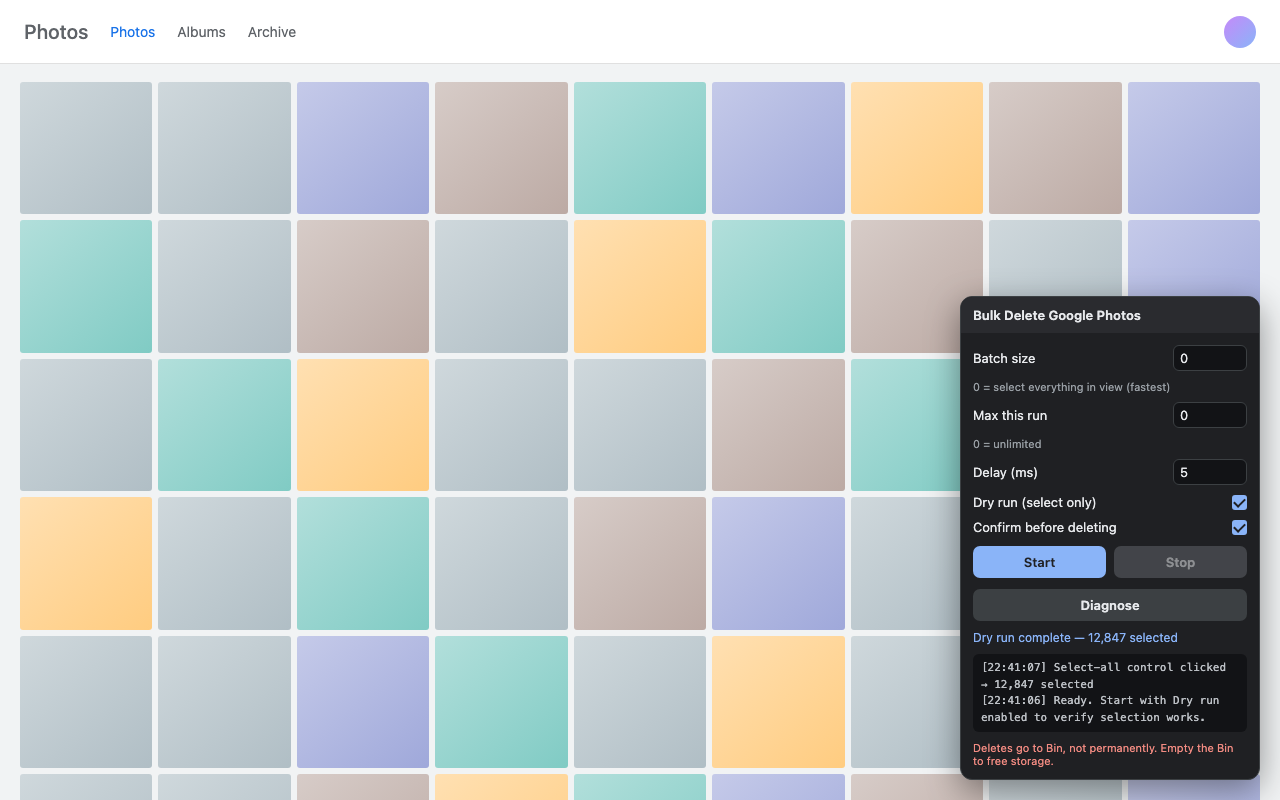
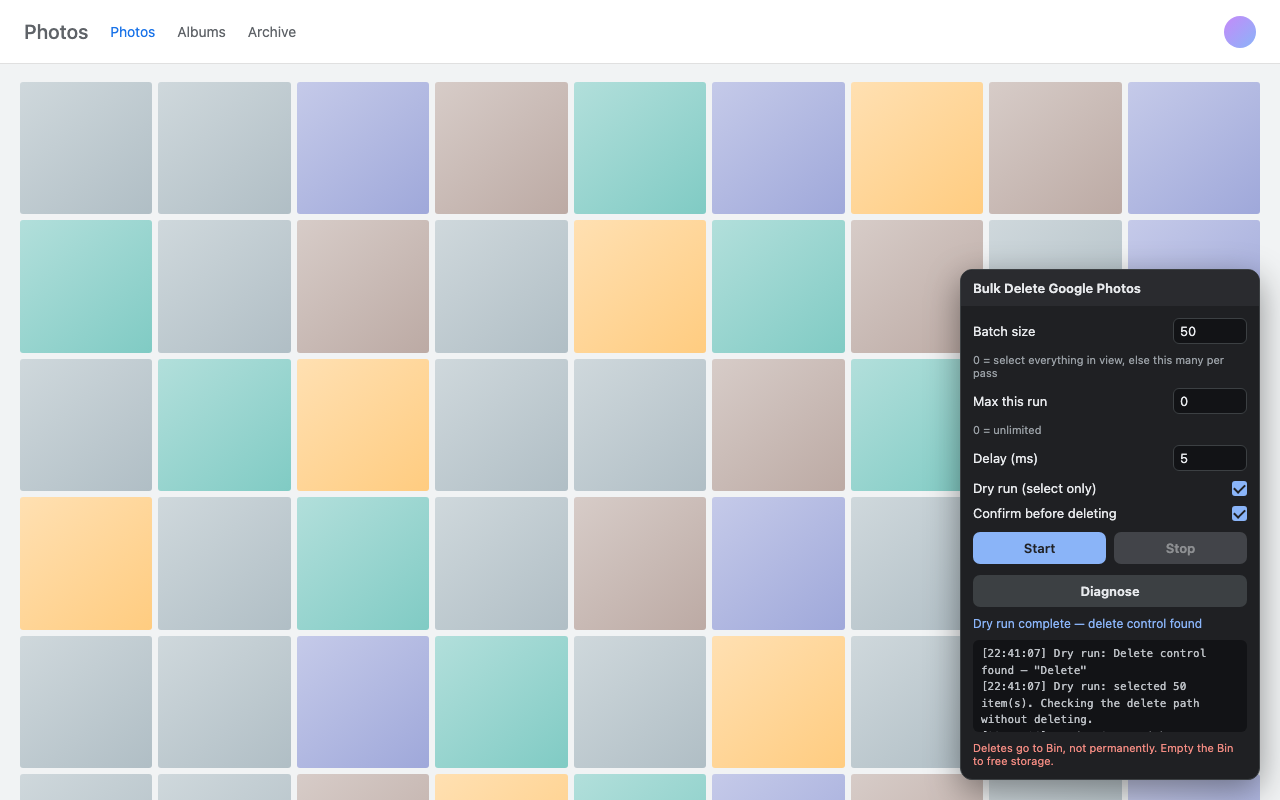
docs: regenerate store screenshot with current defaults
The screenshot showed batch size 0 while the extension now defaults to 50, and the panel text predated the dry-run delete-path check.

Changed region(s): [[0.75, 0.3125, 1.0, 0.9062], [0.9062, 0.5625, 0.9375, 0.5938], [0.9062, 0.5, 0.9375, 0.5312]]

diff --git a/store/shot1.html b/store/shot1.html
@@ -56,8 +56,8 @@
   <div class="panel">
     <div class="head">Bulk Delete Google Photos</div>
     <div class="body">
-      <div class="row">Batch size <div class="box">0</div></div>
-      <div class="hint">0 = select everything in view (fastest)</div>
+      <div class="row">Batch size <div class="box">50</div></div>
+      <div class="hint">0 = select everything in view, else this many per pass</div>
       <div class="row">Max this run <div class="box">0</div></div>
       <div class="hint">0 = unlimited</div>
       <div class="row">Delay (ms) <div class="box">5</div></div>
@@ -65,9 +65,10 @@
       <div class="row"><span>Confirm before deleting</span><div class="cb"></div></div>
       <div class="buttons"><div class="btn primary">Start</div><div class="btn ghost">Stop</div></div>
       <div class="buttons"><div class="btn grey">Diagnose</div></div>
-      <div class="status">Dry run complete — 12,847 selected</div>
+      <div class="status">Dry run complete — delete control found</div>
       <div class="log">
-        <div>[22:41:07] Select-all control clicked → 12,847 selected</div>
+        <div>[22:41:07] Dry run: Delete control found — "Delete"</div>
+        <div>[22:41:07] Dry run: selected 50 item(s). Checking the delete path without deleting.</div>
         <div>[22:41:06] Ready. Start with Dry run enabled to verify selection works.</div>
       </div>
       <div class="warn">Deletes go to Bin, not permanently. Empty the Bin to free storage.</div>
